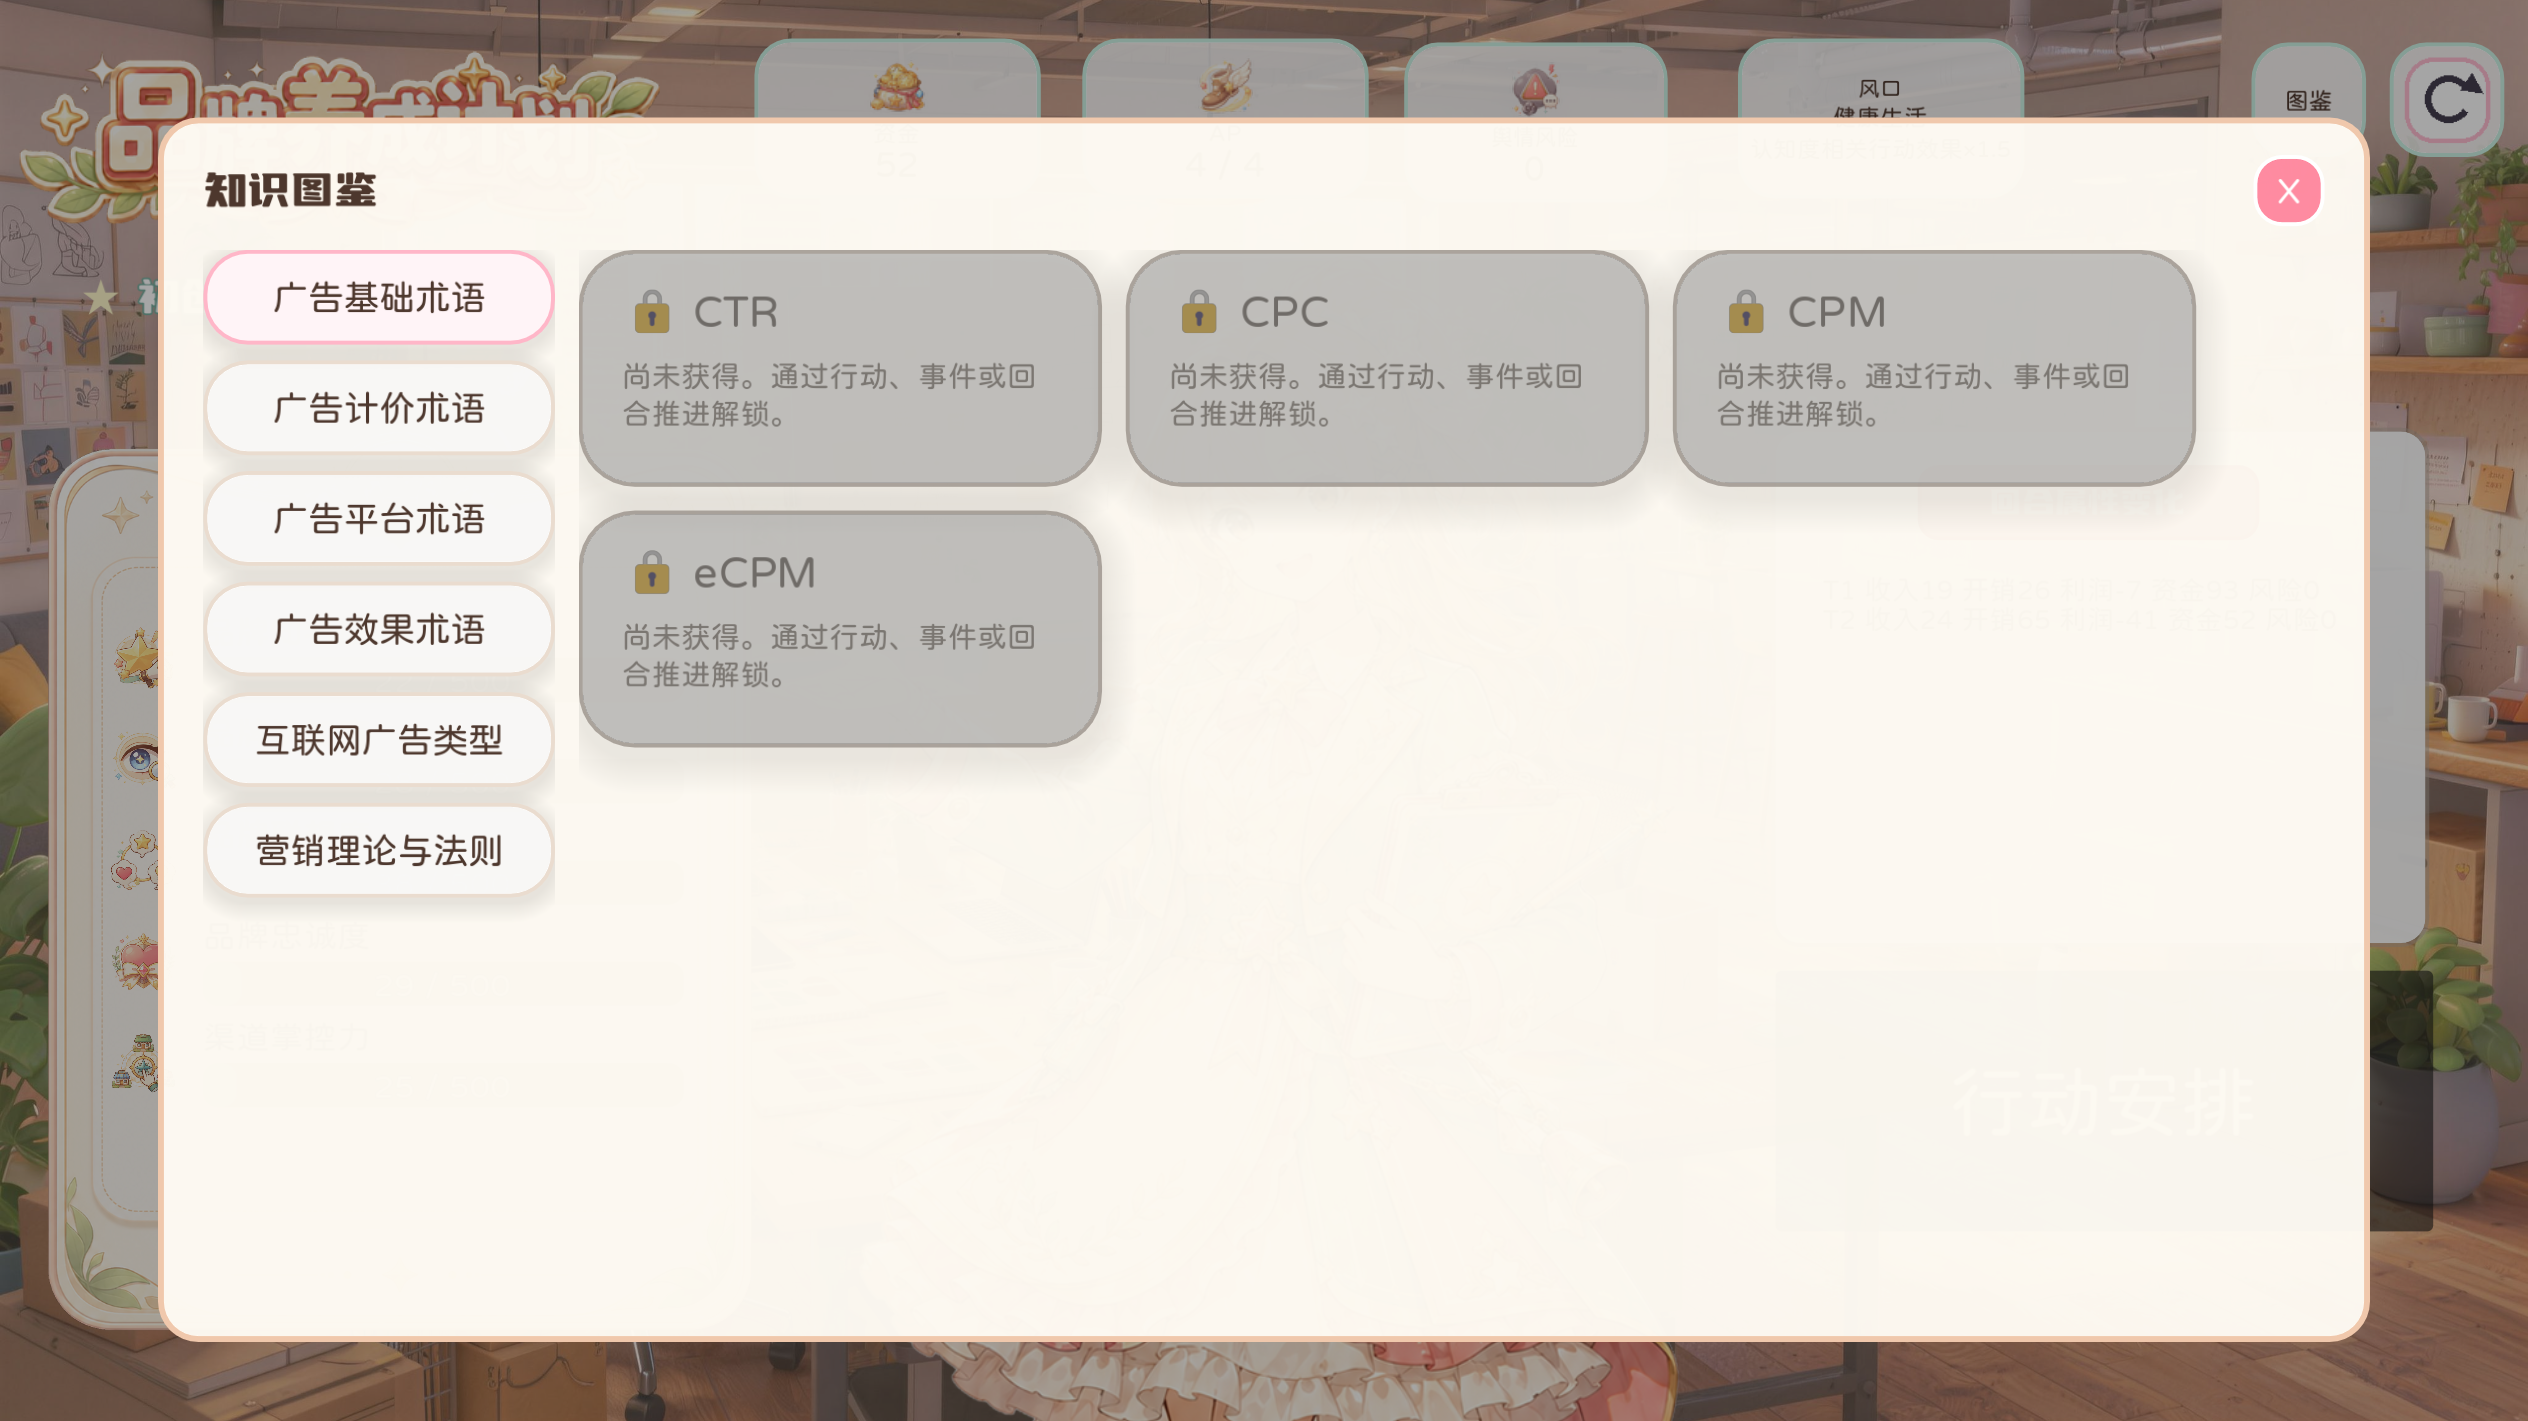
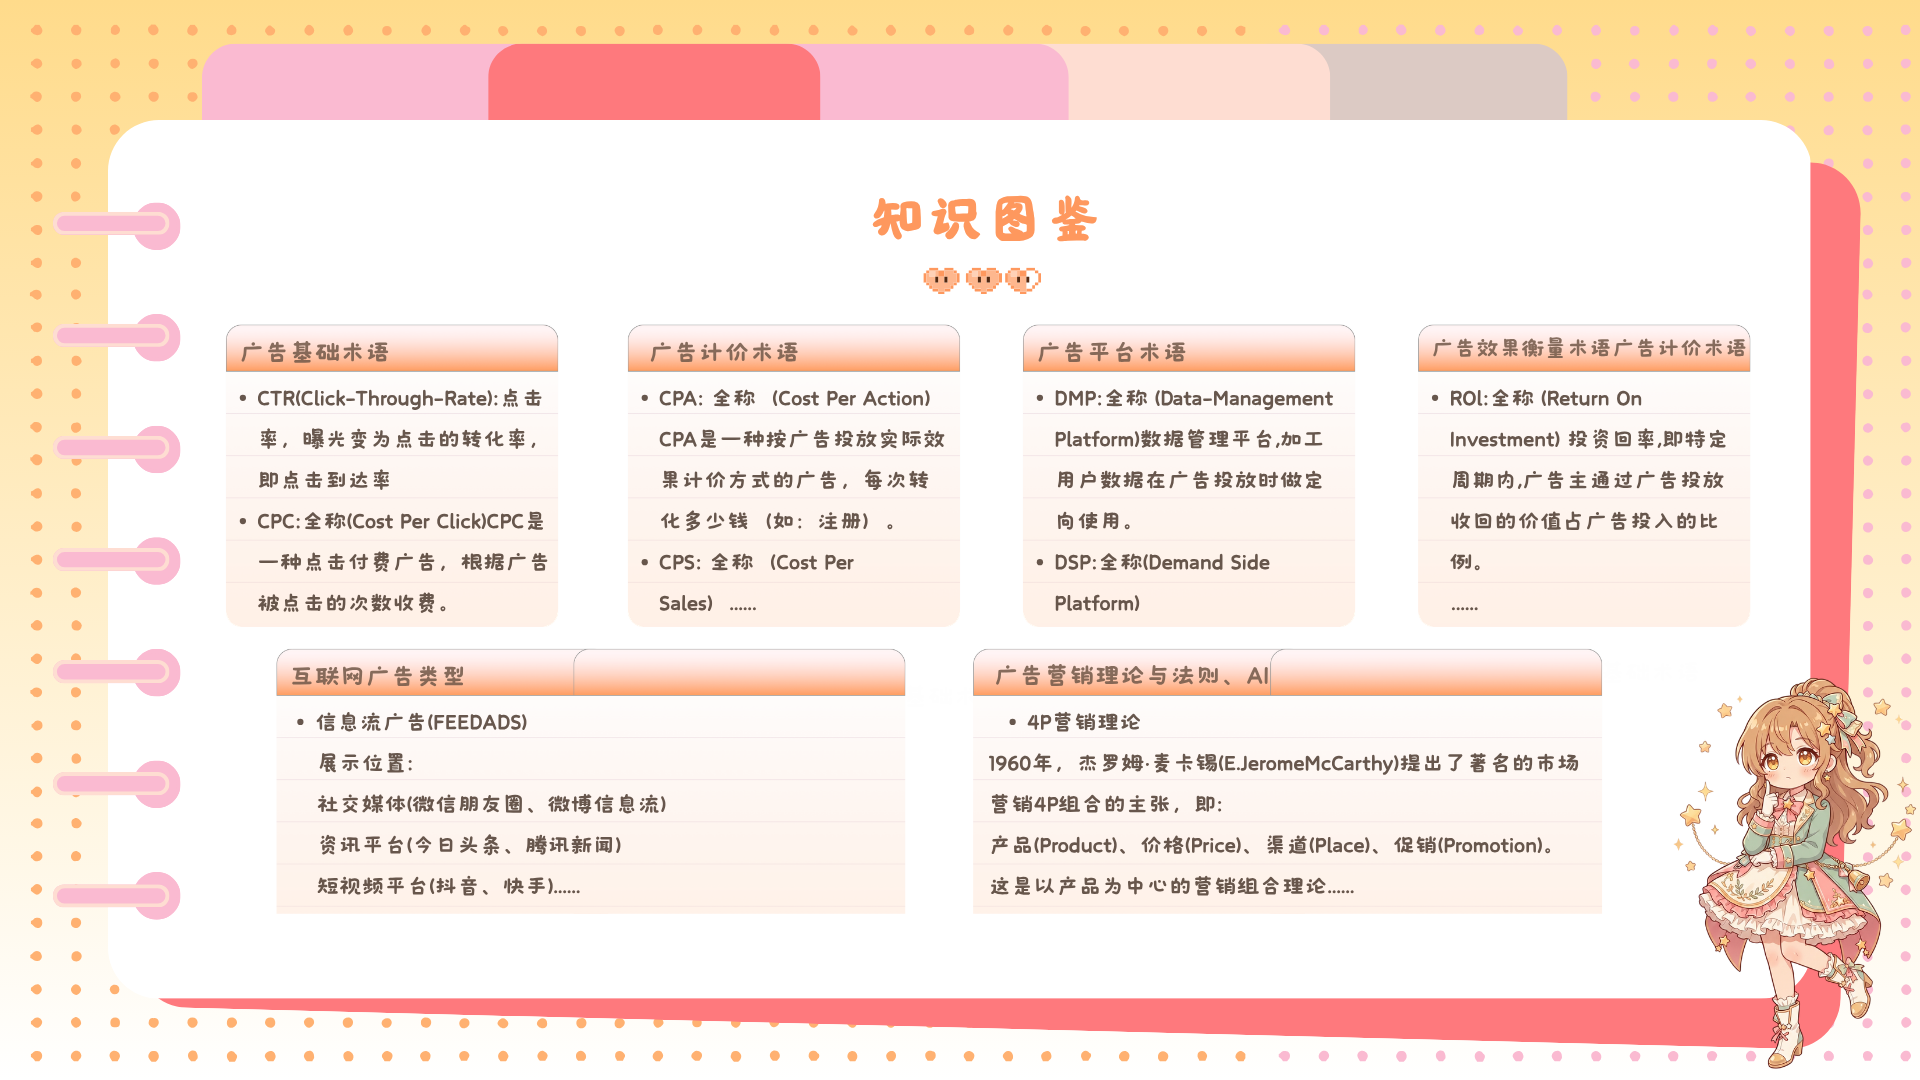
Update README showcase images

diff --git a/README.md b/README.md
@@ -19,19 +19,23 @@
 
 ## 项目展示
 
-![游戏 Logo](assets/icons/游戏名logo.png)
+![游戏封面](展示图片/游戏封面.png)
 
-### 展示图片
+### 游戏介绍
 
-![开始界面](展示图片/start.png)
+![游戏介绍](展示图片/游戏介绍.png)
 
-![开场剧情](展示图片/开场剧情.png)
+![游戏介绍 2](展示图片/游戏介绍2.png)
+
+### 核心界面
+
+![游戏主界面](展示图片/游戏主界面.png)
 
 ![行动安排](展示图片/行动安排.png)
 
-![知识图鉴](展示图片/知识图鉴.png)
+![事件发生](展示图片/事件发生.png)
 
-![阶段剧情](展示图片/阶段剧情.png)
+![知识图鉴](展示图片/知识图鉴.png)
 
 ## 核心玩法
 
@@ -116,9 +120,6 @@ godot --headless --path . tests/SmokeTest.tscn
 烟测会验证数据加载、初始收入/开销、行动执行、自动游玩到第 24 回合、属性范围和结局判定。
 
 
-![技术路线](展示图片/展示2.png)
-
-
 ## 项目结构
 
 ```text
@@ -134,8 +135,6 @@ scripts/            核心逻辑与 UI 脚本
 tests/              烟测场景与测试脚本
 ui/                 旧版或外部导入 UI 参考资源
 ```
-![完成情况](展示图片/展示1.png)
-
 ## 主要脚本
 
 - `scripts/DataLoader.gd`：统一加载 `data/` 下的 JSON 数据
